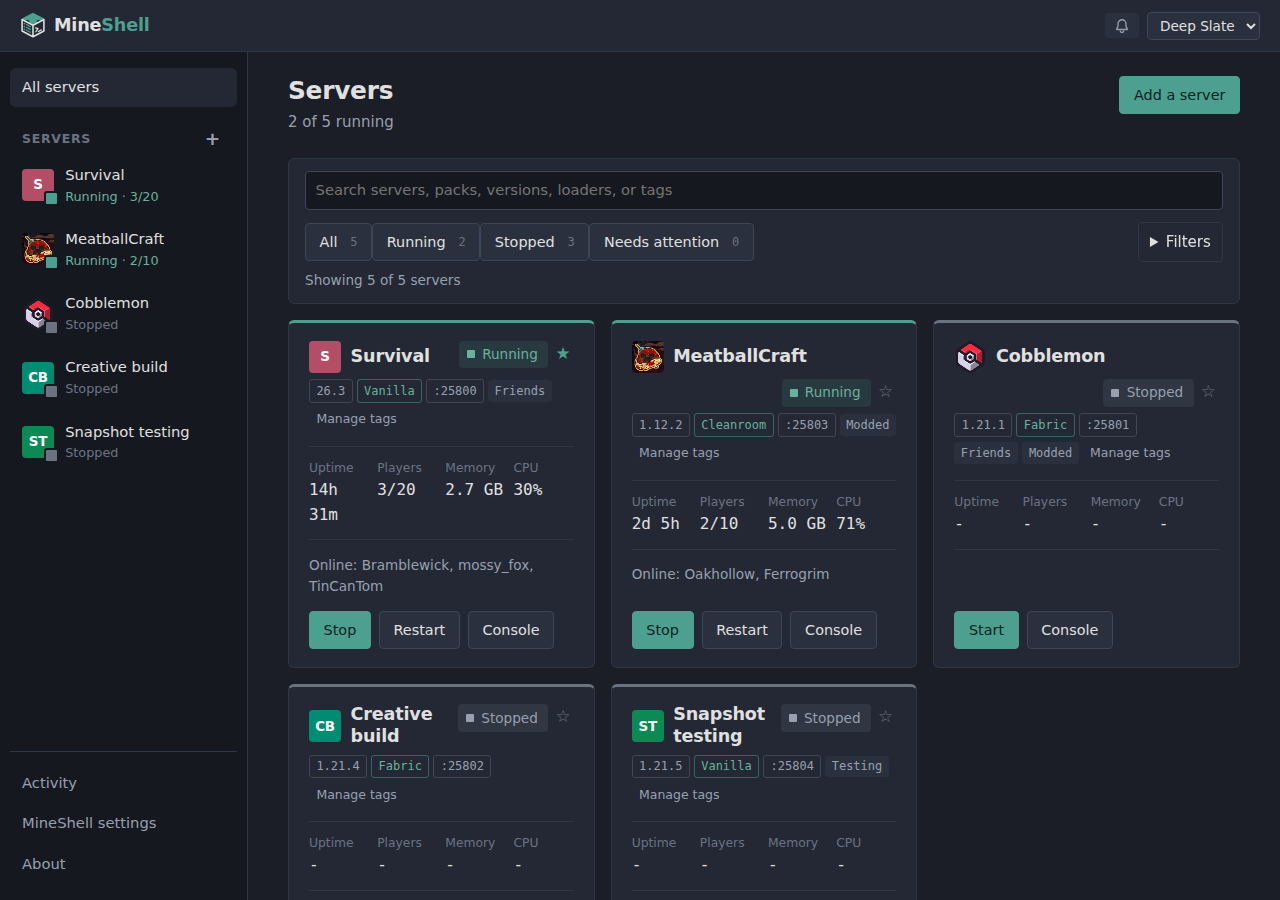
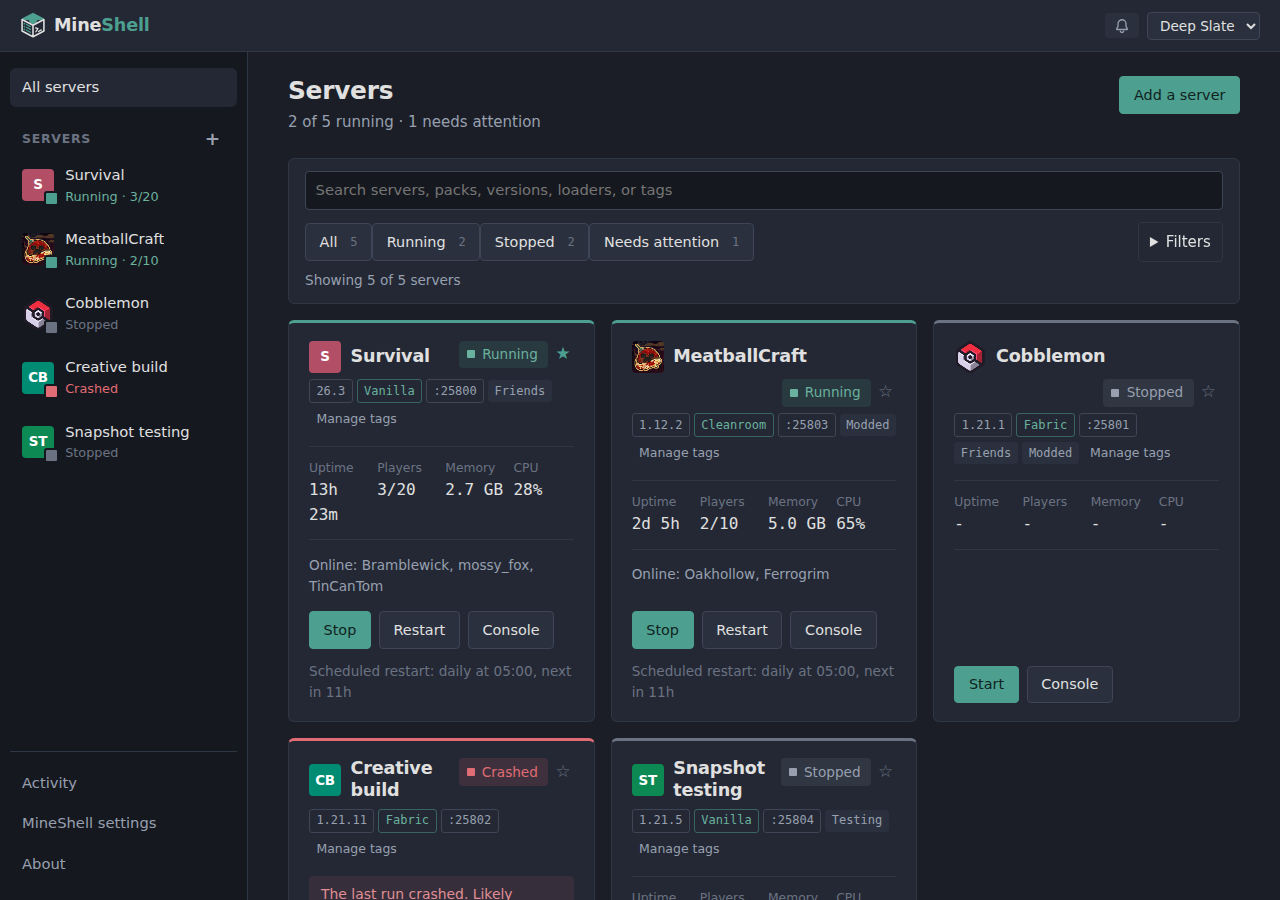
docs: redrawn README screenshots, one per feature section
The gallery shows the overview, server list, console, a pack update
preview and the phone view, all redrawn on today's interface. Feature
sections gain a picture each: the pack browser, crash diagnosis, the
mod browser, the Chunky planner and a player's inventory.

diff --git a/docs/ROADMAP.md b/docs/ROADMAP.md
@@ -78,32 +78,18 @@ until after 1.0, and asked to keep the rest listed here):
   written over RCON, a snapshot copied to a compressed backup folder, the server deleted with
   its files, made again under the same name, the backup folder picked in its settings (copy
   back needs that first), the copy brought back and restored: same seed, marker there.
-- **README and screenshots for the release** (user's call, 2026-10-27: with 1.0, so the
+- **README and screenshots for the release**: done 2026-10-27 (user's call: with 1.0, so the
   project page looks finished; it changes nothing in MineShell itself, so the freeze and the
-  candidate's testing are untouched). The README pass is done (2026-10-27): highlights at the
-  top, MineShell's own updates, themes and phones in one section, tested systems, reaching it
-  from outside, updating; development, layout and theming moved to CONTRIBUTING.md.
-  Screenshots (agreed 2026-10-27): all redrawn, since the UI changed after 2026-10-19 and
-  the old ones show `/tmp/ms-shots/...` as the server directory (give the fake data a
-  realistic path, or end the shot above that row) and a mods table cut off at the right.
-  The tooling stays (`npm run screenshots`, tests/tools/screenshots); the set changes:
-  - **Top**: the overview, large; a gallery of the server list, the console, the **pack
-    update preview** (mods updated, added, removed, configs kept; the page asks Modrinth
-    live) instead of the installed mods, and the phone view.
-  - **One picture per feature section**, cropped to the part that matters (a shot's
-    `element`), full width at the top of its section, where it shows what text cannot:
-    1. **Modpacks**: the pack browser with results and their icons.
-    2. **Console and crashes**: crash diagnosis with its verdict and the one-click disable
-       (the fake server prints a real crash log and exits 1).
-    3. **Mods**: the mod browser (or the installed list, once it has icons).
-    4. **World**: the Chunky planner, a circle on the world's map with the chunk count
-       (synthetic region files; terrain colours need block palettes).
-    5. **Players**: the inventory editor with item pictures (a scene writing a player file
-       with a filled inventory, and the client jar, ~30 MB from Mojang, kept between runs).
-
-    Not settings, files or accounts (generic, and stale with every UI change); no BlueMap
-    render for now (it needs a real world rendered).
-  - Also open: Jade's title has an emoji ("Jade 🔍") that the headless Chrome draws as a box.
+  candidate's testing are untouched). README: highlights at the top, MineShell's own updates,
+  themes and phones in one section, tested systems, reaching it from outside, updating;
+  development, layout and theming moved to CONTRIBUTING.md. Screenshots all redrawn
+  (`npm run screenshots`): the overview (ending above the throwaway data path), the server
+  list, the console, a pack update preview and the phone view at the top, and one per
+  feature section: the pack browser, crash diagnosis, the mod browser, the Chunky planner on
+  a real generated world, and a player's inventory with item pictures. Left out: settings,
+  files and accounts (generic, stale with every UI change) and a BlueMap render. The
+  redraw found eight UI bugs, fixed: words run together at block edges, "file(s)",
+  bullets in the pack preview's lists, and mod updates counted as removed and added.
 
 Long running is covered: the user's installed MineShell has run a server with scheduled
 restarts and snapshots since it was installed.

diff --git a/README.md b/README.md
@@ -14,7 +14,7 @@ Manage your own servers from a browser, or give friends access to specific serve
 <td><img src="docs/screenshots/console.png" alt="The live console, with filters for errors, joins and chat"></td>
 </tr>
 <tr>
-<td><img src="docs/screenshots/mods.png" alt="A modpack server's installed mods"></td>
+<td><img src="docs/screenshots/pack-update.png" alt="A pack update previewed: mods updated, added and removed, configs moved aside, your own files kept"></td>
 <td align="center"><img src="docs/screenshots/overview-phone.png" alt="The overview on a phone" width="260"></td>
 </tr>
 </table>
@@ -33,6 +33,8 @@ Manage your own servers from a browser, or give friends access to specific serve
 ### Modpack & instance management
 
 Install and maintain modded Minecraft servers without having to manage every step manually.
+
+![Browsing modpacks: Modrinth searched for Cobblemon, its official pack opened with its description and versions](docs/screenshots/packs.png)
 
 - **Multiple sources:** Browse Modrinth, CurseForge, and FTB, upload `.mrpack` or CurseForge archives, or create a server from a Minecraft version and loader.
 - **Loader support:** Vanilla, Fabric, Quilt, Forge, NeoForge, and Cleanroom.
@@ -69,6 +71,8 @@ Control server lifecycles and monitor what is happening without leaving the brow
 
 Find out what went wrong without manually digging through files and terminal output.
 
+![A crashed server's last output: Simple Datapacks needs Mod Menu, which only runs on clients, with a button to disable it](docs/screenshots/crash.png)
+
 - Live console output streamed from the systemd journal, with commands sent through RCON.
 - Filter log levels, search output, expand or collapse stack traces, and highlight player joins and departures.
 - Command history, saved commands, and a dedicated chat view.
@@ -82,6 +86,8 @@ Find out what went wrong without manually digging through files and terminal out
 ### Mod management & client exports
 
 Manage server mods and prepare matching client installations from the same interface.
+
+![Adding mods: Modrinth's popular Fabric mods for the server's version, installed ones marked, one opened](docs/screenshots/mod-browser.png)
 
 - Search Modrinth and CurseForge, resolve mod dependencies, install updates, or upload JARs manually.
 - Enable, disable, delete, and change mod versions.
@@ -97,6 +103,8 @@ Manage server mods and prepare matching client installations from the same inter
 ### World management & snapshots
 
 Manage worlds, recover from mistakes, and automate routine maintenance.
+
+![Planning a Chunky pre-generation: a circle round spawn on the world's chunk map, with the chunks to generate and the disk they take](docs/screenshots/pregen.png)
 
 - Create snapshots manually, on a schedule, or automatically before risky operations.
 - Snapshot a running server with saving paused, or stop and restart it around the operation.
@@ -115,6 +123,8 @@ Manage worlds, recover from mistakes, and automate routine maintenance.
 ### Player management & inventory editing
 
 Administer players and inspect their saved data, including inventories containing modded items.
+
+![A player's inventory with the game's own item pictures: armour, offhand, inventory and hotbar](docs/screenshots/player.png)
 
 - Manage whitelists, operators and operator levels, bans with reasons, and IP bans.
 - Remove a player from a world (their player file, stats and advancements go to the trash), for someone who joined once and should not stay in the list.
